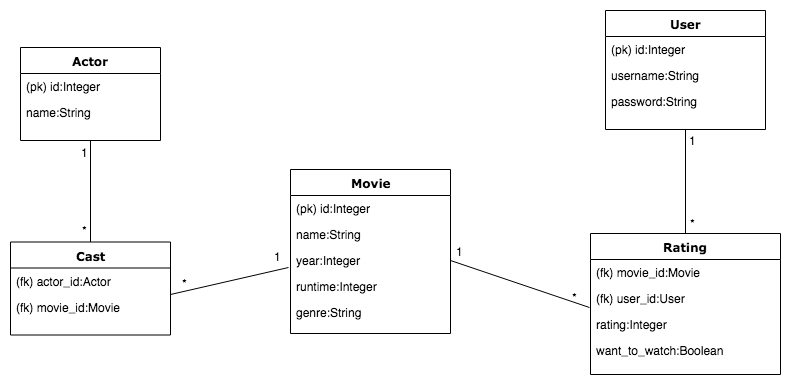
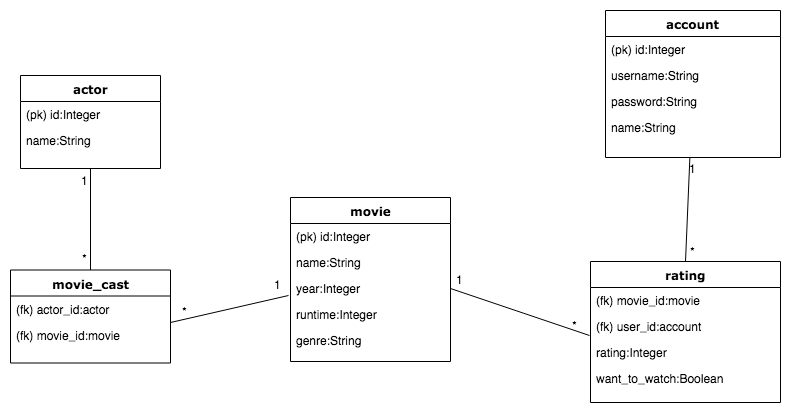
Update documentation

diff --git a/documentation/user_stories.md b/documentation/user_stories.md
@@ -1,36 +1,97 @@
 ## Käyttäjätarinat
 
 - Järjestelmän ylläpitäjänä haluan lisätä tietokantaan elokuvia.
+```SQL
+INSERT INTO movie (date_created, date_modified, name, year, genre, runtime) VALUES (CURRENT_TIMESTAMP, CURRENT_TIMESTAMP, 'Ghostbusters', 1984, 'Action', 105)
+```
 
 - Järjestelmän ylläpitäjänä haluan muokata tietokantaan tallennettujen elokuvien tietoja.
+```SQL
+UPDATE movie SET date_modified=CURRENT_TIMESTAMP, runtime=107 WHERE movie.id = 3
+```
 
 - Järjestelmän ylläpitäjänä haluan poistaa tietokannasta elokuvia.
+```SQL
+DELETE FROM movie WHERE movie.id = 1
+```
 
 - Järjestelmän ylläpitäjänä haluan lisätä tietokantaan näyttelijöitä.
+```SQL
+INSERT INTO actor (date_created, date_modified, name) VALUES (CURRENT_TIMESTAMP, CURRENT_TIMESTAMP, 'Bill Murray')
+```
 
 - Järjestelmän ylläpitäjänä haluan muokata tietokantaan tallennettujen näyttelijöiden tietoja.
+```SQL
+UPDATE actor SET date_modified=CURRENT_TIMESTAMP, name='Scarlett Johansson' WHERE actor.id = 2
+```
 
 - Järjestelmän ylläpitäjänä haluan poistaa tietokannasta näyttelijöitä.
+```SQL
+DELETE FROM actor WHERE actor.id = 1
+```
+
+- Järjestelmän ylläpitäjänä haluan lisätä elokuvan näyttelijäkaartiin näyttelijöitä.
+```SQL
+INSERT INTO movie_cast (actor_id, movie_id) VALUES (4, 3)
+```
+
+- Järjestelmän ylläpitäjänä haluan poistaa elokuvan näyttelijäkaartista näyttelijöitä.
+```SQL
+DELETE FROM movie_cast WHERE movie_cast.actor_id = 2 AND movie_cast.movie_id = 3
+```
 
 - Järjestelmän ylläpitäjänä haluan kirjautua sisään järjestelmään.
 
 - Käyttäjänä haluan rekisteröityä järjestelmään.
+```SQL
+INSERT INTO account (date_created, date_modified, name, username, password) VALUES (CURRENT_TIMESTAMP, CURRENT_TIMESTAMP, 'example', 'user', 'password')
+```
 
 - Käyttäjänä haluan kirjautua sisään järjestelmään.
+```SQL
+SELECT account.id AS account_id, account.date_created AS account_date_created, account.date_modified AS account_date_modified, account.name AS account_name, account.username AS account_username, account.password AS account_password 
+FROM account 
+WHERE account.username = 'user' AND account.password = 'password'
+ LIMIT 1 OFFSET 0
+```
 
-- Käyttäjänä haluan nähdä listauksen tietokannan elokuvista sekä hakea elokuvia eri kriteerien perusteella,
-jotta löydän helposti haluamani elokuvan.
+- Käyttäjänä haluan nähdä listauksen tietokannan elokuvista
+```SQL
+SELECT movie.id AS movie_id, movie.date_created AS movie_date_created, movie.date_modified AS movie_date_modified, movie.name AS movie_name, movie.year AS movie_year, movie.genre AS movie_genre, movie.runtime AS movie_runtime 
+FROM movie
+``` 
+
+- Käyttäjänä haluan hakea elokuvia eri kriteerien perusteella, jotta löydän helposti haluamani elokuvan.
+```SQL
+Hae elokuvia näyttelijän perusteella:
+SELECT DISTINCT movie.id, movie.name, movie.year, movie.genre, movie.runtime FROM movie JOIN movie_cast ON movie_id=movie.id JOIN actor ON actor_id=actor.id WHERE actor.name LIKE '%bill%'
+```
 
 - Käyttäjänä haluan antaa arvosanan katsomalleni elokuvalle.
+```SQL
+INSERT INTO rating (date_created, date_modified, movie_id, user_id, want_to_watch, rating) VALUES (CURRENT_TIMESTAMP, CURRENT_TIMESTAMP, 3, 2, 0, 1)
+```
 
 - Käyttäjänä haluan nähdä listauksen antamistani arvosanoista.
 
 - Käyttäjänä haluan muokata elokuvalle antamaani arvosanaa.
+```SQL
+UPDATE rating SET date_modified=CURRENT_TIMESTAMP, rating=10 WHERE rating.id = 3
+```
 
 - Käyttäjänä haluan poistaa elokuvalle antamani arvosanan.
+```SQL
+UPDATE rating SET date_modified=CURRENT_TIMESTAMP, rating=None WHERE rating.id = 3
+```
 
 - Käyttäjänä haluan tallentaa toivelistalle elokuvan jonka haluaisin nähdä, jotta löydän sen helposti myöhemmin.
+```SQL
+INSERT INTO rating (date_created, date_modified, movie_id, user_id, want_to_watch, rating) VALUES (CURRENT_TIMESTAMP, CURRENT_TIMESTAMP, 2, 2, 1, None)
+```
 
 - Käyttäjänä haluan nähdä listauksen toivelistani elokuvista.
 
 - Käyttäjänä haluan poistaa elokuvan toivelistalta.
+```SQL
+UPDATE rating SET date_modified=CURRENT_TIMESTAMP, want_to_watch=0 WHERE rating.id = 2
+```

diff --git a/documentation/create_table_statements.md b/documentation/create_table_statements.md
@@ -1,0 +1,52 @@
+```SQL
+CREATE TABLE movie (
+	id INTEGER NOT NULL,
+	date_created DATETIME,
+	date_modified DATETIME,
+	name VARCHAR(144) NOT NULL,
+	year INTEGER NOT NULL,
+	genre VARCHAR(144) NOT NULL,
+	runtime INTEGER NOT NULL,
+	PRIMARY KEY (id)
+)
+
+CREATE TABLE actor (
+	id INTEGER NOT NULL,
+	date_created DATETIME,
+	date_modified DATETIME,
+	name VARCHAR(144) NOT NULL,
+	PRIMARY KEY (id)
+)
+
+CREATE TABLE account (
+	id INTEGER NOT NULL,
+	date_created DATETIME,
+	date_modified DATETIME,
+	name VARCHAR(144) NOT NULL,
+	username VARCHAR(144) NOT NULL,
+	password VARCHAR(144) NOT NULL,
+	PRIMARY KEY (id)
+)
+
+CREATE TABLE movie_cast (
+	actor_id INTEGER NOT NULL,
+	movie_id INTEGER NOT NULL,
+	PRIMARY KEY (actor_id, movie_id),
+	FOREIGN KEY(actor_id) REFERENCES actor (id),
+	FOREIGN KEY(movie_id) REFERENCES movie (id)
+)
+
+CREATE TABLE rating (
+	id INTEGER NOT NULL,
+	date_created DATETIME,
+	date_modified DATETIME,
+	movie_id INTEGER,
+	user_id INTEGER,
+	want_to_watch BOOLEAN,
+	rating INTEGER,
+	PRIMARY KEY (id),
+	FOREIGN KEY(movie_id) REFERENCES movie (id),
+	FOREIGN KEY(user_id) REFERENCES account (id),
+	CHECK (want_to_watch IN (0, 1))
+)
+```
